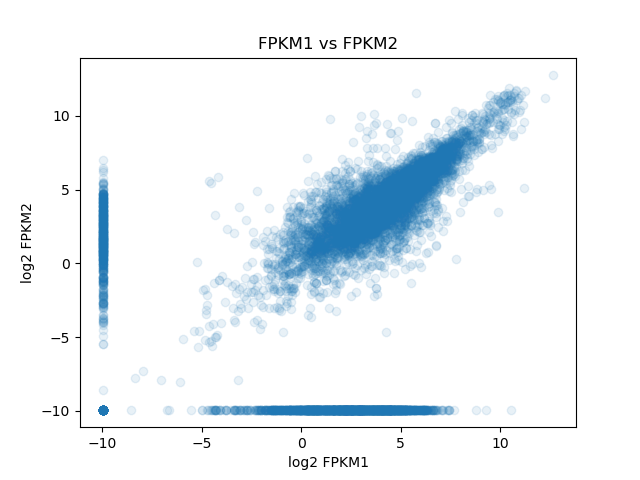
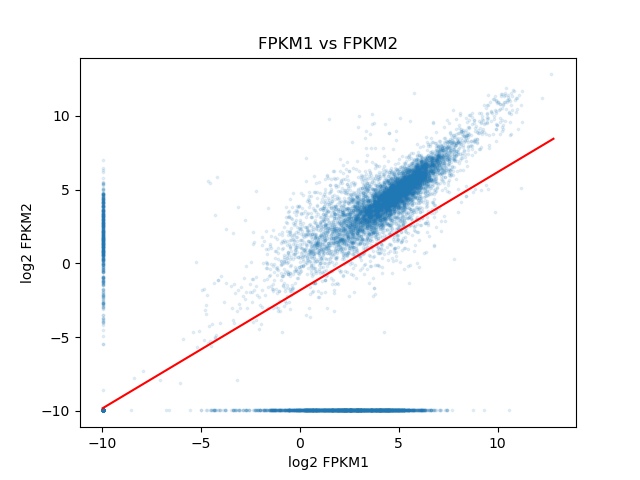
ex2

diff --git a/day4-lunch/scatter.py b/day4-lunch/scatter.py
@@ -23,16 +23,21 @@ fpkm={name1 : ctab1.loc[:,"FPKM"],
 
 df = pd.DataFrame(fpkm)
 
-fig, ax = plt.subplots()
+
 # print(np.log2(df.loc[:,name1]))
-ax.scatter(np.log2( df.loc[:,name1]+0.001), np.log2(df.loc[:,name2]+0.001), alpha = 0.1, s=10) #alpha is opacity, s is size
+
 
 xx = np.log2(df.loc[:,name1]+0.001)
 yy = np.log2(df.loc[:,name2]+0.001)
 
-m= np.polyfit(xx, yy, deg = 1)
+m, b= np.polyfit(xx, yy, 1)
+x=[xx.min(), yy.max()]
 
-m()
+fig, ax = plt.subplots()
+
+ax.scatter(np.log2( df.loc[:,name1]+0.001), np.log2(df.loc[:,name2]+0.001), alpha = 0.1, s=3) #alpha is opacity, s is size
+
+ax.plot(x, [(m*x1+b) for x1 in x], color = "red")
 
 plt.title("FPKM1 vs FPKM2")
 plt.xlabel("log2 FPKM1")
